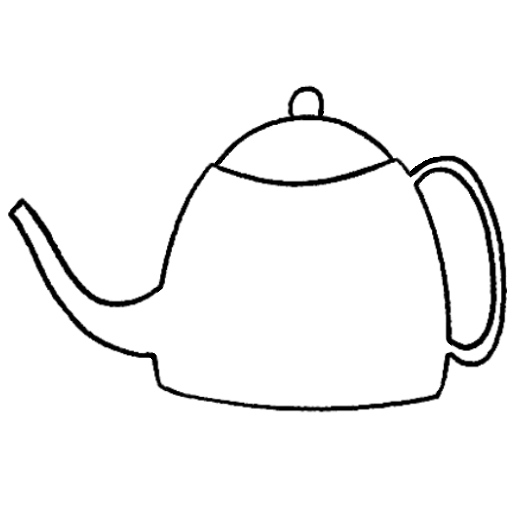
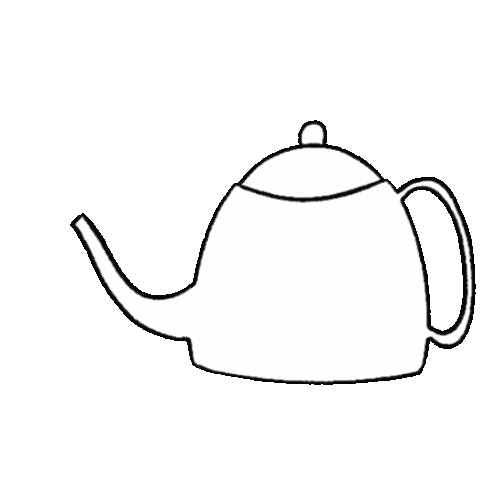
Fixed teapot size and removed loop from tea leaf draining animation, fixed button styling

Changed region(s): [[0.0, 0.1562, 1.0, 0.8125], [0.3125, 0.375, 0.375, 0.5625], [0.4375, 0.4062, 0.4688, 0.4688]]

diff --git a/source/frame5.html b/source/frame5.html
@@ -26,7 +26,7 @@
                 <h2 id="predictionTxt">Your Fortune:</h2>
                 <div class='image-layers'>
                     <img id="predictionImg" class="image-predict" src="" />
-                    <img id='reveal_layer' class="image-overlay" src="assets/images/gifs/revealBase.gif" loop="false" />
+                    <img id='reveal_layer' class="image-overlay" src="assets/images/gifs/revealBaseNoLoop.gif" loop="false" />
                 </div>
 
             </div>

diff --git a/source/assets/styles/frame3.css b/source/assets/styles/frame3.css
@@ -32,6 +32,7 @@ Description: Styling specific for mobile
         top: 17vh;
         left: 40%;
         right: 40%;
+        
     }
 }
 /*
@@ -66,6 +67,8 @@ Description: Styling specific for desktop and mobile
 .hidden {
     display: none;
 }
+
+
 
 /*
 Description: Styling specific for desktop

diff --git a/source/assets/styles/global.css b/source/assets/styles/global.css
@@ -66,6 +66,7 @@ a {
     position: relative;
     color: white;
     font-weight: bold;
+    text-decoration: none;
 }
 
 button:hover,
